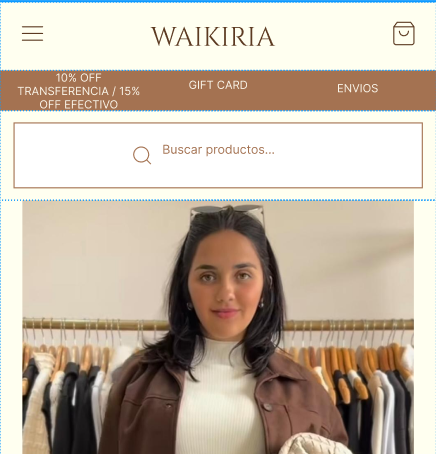
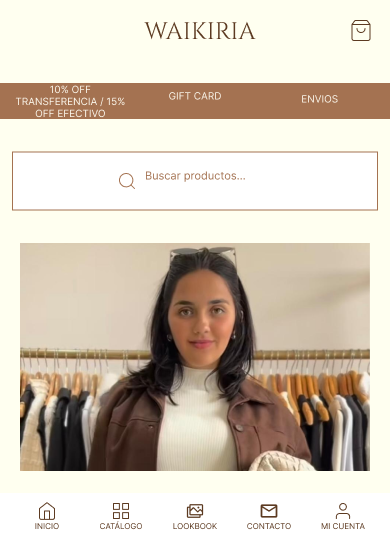
actualizado el figma

diff --git a/lib/widgets/custom_header.dart b/lib/widgets/custom_header.dart
@@ -24,20 +24,19 @@ class CustomHeader extends StatelessWidget {
       child: Row(
         mainAxisAlignment: MainAxisAlignment.spaceBetween,
         children: [
-          // Ícono izquierdo: ☰ o ←
-          IconButton(
-            icon: Icon(
-              mostrarVolver ? Icons.arrow_back : Icons.menu,
-              color: AppColors.marronOscuro,
-            ),
-            onPressed: () {
-              if (mostrarVolver) {
+          // Ícono izquierdo: ← (volver) o espacio vacío
+          if (mostrarVolver)
+            IconButton(
+              icon: const Icon(
+                Icons.arrow_back,
+                color: AppColors.marronOscuro,
+              ),
+              onPressed: () {
                 Navigator.pop(context);
-              } else {
-                Scaffold.of(context).openDrawer();
-              }
-            },
-          ),
+              },
+            )
+          else
+            const SizedBox(width: 48),  // ← espacio vacío del mismo tamaño
 
           // Título
           Text(
